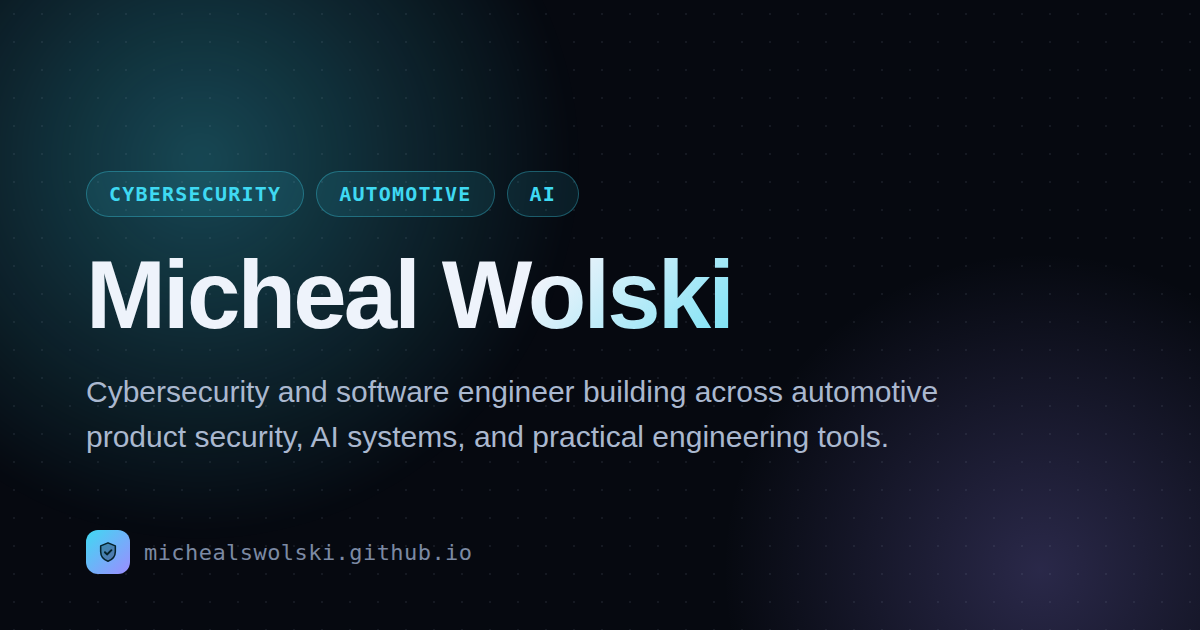
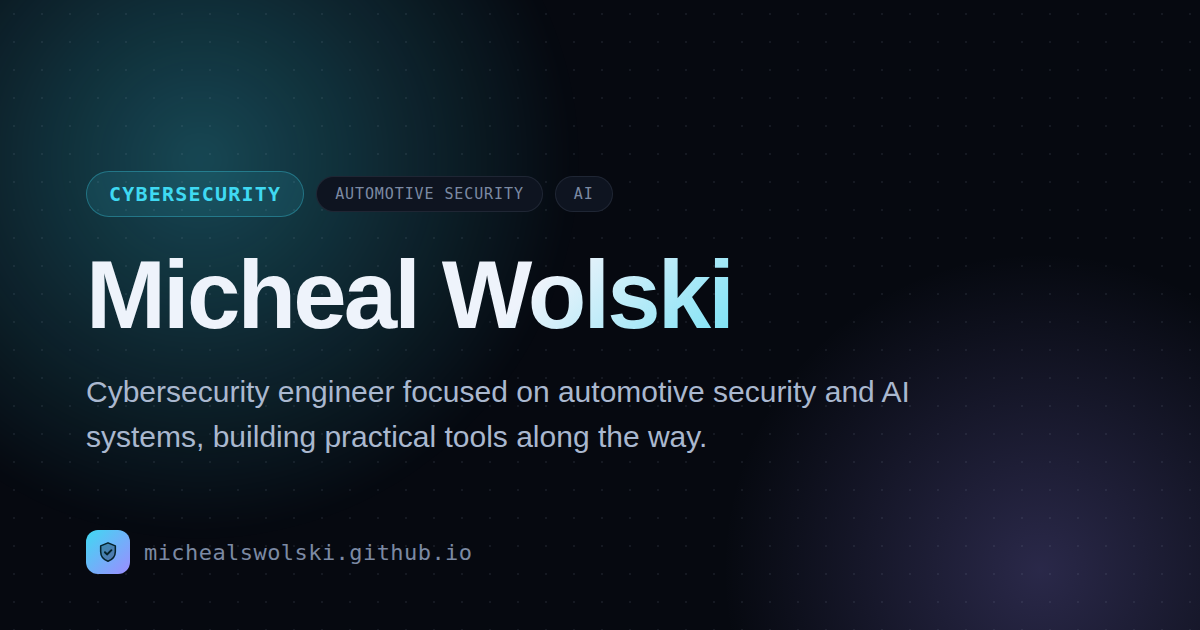
portfolio: reframe hero as cybersecurity-primary, not 3 equal pillars
The hero's "Cybersecurity | Automotive | AI" pills read as three
co-equal, unrelated fields. Automotive and AI are specialization
interests within cybersecurity, not separate identities, so:

- profile.js: split taglineParts into identity ("Cybersecurity") +
  focusAreas (["Automotive Security", "AI"])
- Hero.jsx: render one primary pill + visibly smaller/muted secondary
  pills instead of three flat equal ones; same hierarchy in the
  "Open to full-time roles" status line
- heroSummary / about copy: lead with "cybersecurity engineer",
  frame automotive/AI as what it's focused on, not co-equal titles
- index.html + og-image: same hierarchy in the title tags and the
  generated social-preview image

Claude-Session: https://claude.ai/code/session_01XLxc2CJFwU3ibaFjCSkQgP

Changed region(s): [[0.0617, 0.6032, 0.8017, 0.7238], [0.2467, 0.2714, 0.4933, 0.3619]]

diff --git a/src/data/profile.js b/src/data/profile.js
@@ -1,13 +1,16 @@
 export const profile = {
   name: "Micheal Wolski",
-  taglineParts: ["Cybersecurity", "Automotive", "AI"],
+  // Cybersecurity is the identity; automotive and AI are specialization
+  // interests within it — not three co-equal, unrelated pillars.
+  identity: "Cybersecurity",
+  focusAreas: ["Automotive Security", "AI"],
   heroSummary:
-    "Cybersecurity and software engineer building across automotive product security, AI systems, and practical engineering tools. Bosch Mobility alum, Eastern Michigan University graduate.",
+    "Cybersecurity engineer focused on automotive security and AI systems, building practical tools along the way. Bosch Mobility alum, Eastern Michigan University graduate.",
   aboutParagraphs: [
-    "I'm a cybersecurity and software engineer based in Michigan, most interested in the point where security, vehicles, and AI overlap. I graduated from Eastern Michigan University with a B.S. in Information Assurance & Cyber Defense, after an A.A.S. in Computer Information Systems from Henry Ford College.",
+    "I'm a cybersecurity engineer based in Michigan, with a particular focus on automotive security and AI — the intersection of security, vehicles, and intelligent systems. I graduated from Eastern Michigan University with a B.S. in Information Assurance & Cyber Defense, after an A.A.S. in Computer Information Systems from Henry Ford College.",
     "Most of my hands-on security background comes from building things rather than just reading about them: home-lab intrusion detection, SIEM tuning, and full detect-to-remediate vulnerability management cycles. During a Product Cybersecurity internship at Bosch Mobility, I got to do that at enterprise scale — building an intake and reporting platform used across multiple engineering divisions, and researching secure boot for automotive ECUs.",
-    "Lately I've been spending more time on the software and AI side: agent-governance tooling, RAG-backed assistants, and full-stack apps that solve a problem I actually ran into — job-search tracking, RFQ triage, forecast reporting. I like projects with a real feedback loop, where something breaks, I fix it, and I can walk you through exactly how it works.",
-    "I'm looking for full-time roles where security, automotive or embedded systems, and AI-adjacent engineering intersect with actually shipping software.",
+    "Lately I've been spending more time on the AI side of security: agent-governance tooling, RAG-backed assistants, and full-stack apps that solve a problem I actually ran into — job-search tracking, RFQ triage, forecast reporting. I like projects with a real feedback loop, where something breaks, I fix it, and I can walk you through exactly how it works.",
+    "I'm looking for full-time cybersecurity roles — automotive security and AI-adjacent engineering are where I'd most like to land, but any role where I'm actually shipping software works for me.",
   ],
   currentlyExploring: [
     "AI agent governance patterns",

diff --git a/index.html b/index.html
@@ -4,7 +4,7 @@
     <meta charset="UTF-8" />
     <meta name="viewport" content="width=device-width, initial-scale=1.0" />
 
-    <title>Micheal Wolski | Cybersecurity · Automotive · AI</title>
+    <title>Micheal Wolski | Cybersecurity · Automotive & AI Security</title>
     <meta
       name="description"
       content="Portfolio of Micheal Wolski — cybersecurity and software professional focused on automotive security, AI systems, automation, embedded technologies, and full-stack engineering."
@@ -17,7 +17,7 @@
     <meta property="og:type" content="website" />
     <meta property="og:url" content="https://michealswolski.github.io/" />
     <meta property="og:site_name" content="Micheal Wolski" />
-    <meta property="og:title" content="Micheal Wolski | Cybersecurity · Automotive · AI" />
+    <meta property="og:title" content="Micheal Wolski | Cybersecurity · Automotive & AI Security" />
     <meta
       property="og:description"
       content="Cybersecurity and software professional focused on automotive security, AI systems, automation, embedded technologies, and full-stack engineering."
@@ -28,7 +28,7 @@
 
     <!-- Twitter -->
     <meta name="twitter:card" content="summary_large_image" />
-    <meta name="twitter:title" content="Micheal Wolski | Cybersecurity · Automotive · AI" />
+    <meta name="twitter:title" content="Micheal Wolski | Cybersecurity · Automotive & AI Security" />
     <meta
       name="twitter:description"
       content="Cybersecurity and software professional focused on automotive security, AI systems, automation, embedded technologies, and full-stack engineering."

diff --git a/src/sections/Hero.jsx b/src/sections/Hero.jsx
@@ -30,9 +30,10 @@ export default function Hero() {
       <div className="container hero-inner">
         <div className="hero-main">
           <div className="hero-tagline-row">
-            {profile.taglineParts.map((part, i) => (
-              <span key={part} className="pill hero-tagline-pill">
-                {part}
+            <span className="pill hero-tagline-pill hero-tagline-pill--primary">{profile.identity}</span>
+            {profile.focusAreas.map((area) => (
+              <span key={area} className="pill hero-tagline-pill hero-tagline-pill--secondary">
+                {area}
               </span>
             ))}
           </div>
@@ -71,7 +72,9 @@ export default function Hero() {
             <span className="dot dot--live" style={{ color: "var(--success)" }} aria-hidden="true" />
             <div>
               <p className="hero-status-title">Open to full-time roles</p>
-              <p className="hero-status-sub mono">Cybersecurity · Automotive Security · AI Engineering</p>
+              <p className="hero-status-sub mono">
+                {profile.identity} — {profile.focusAreas.join(" & ")} focus
+              </p>
             </div>
           </div>
 

diff --git a/src/styles/components.css b/src/styles/components.css
@@ -112,6 +112,19 @@
   letter-spacing: 0.08em;
   text-transform: uppercase;
 }
+/* Cybersecurity is the identity; automotive/AI are focus areas within it —
+   sized and colored as a visibly secondary tier, not equal-weight pillars. */
+.hero-tagline-pill--primary {
+  font-weight: 700;
+}
+.hero-tagline-pill--secondary {
+  font-size: 10px;
+  font-weight: 500;
+  color: var(--text-dim);
+  background: var(--surface);
+  border-color: var(--border);
+  padding: 6px 13px;
+}
 
 .hero-name {
   font-family: var(--font-display);
